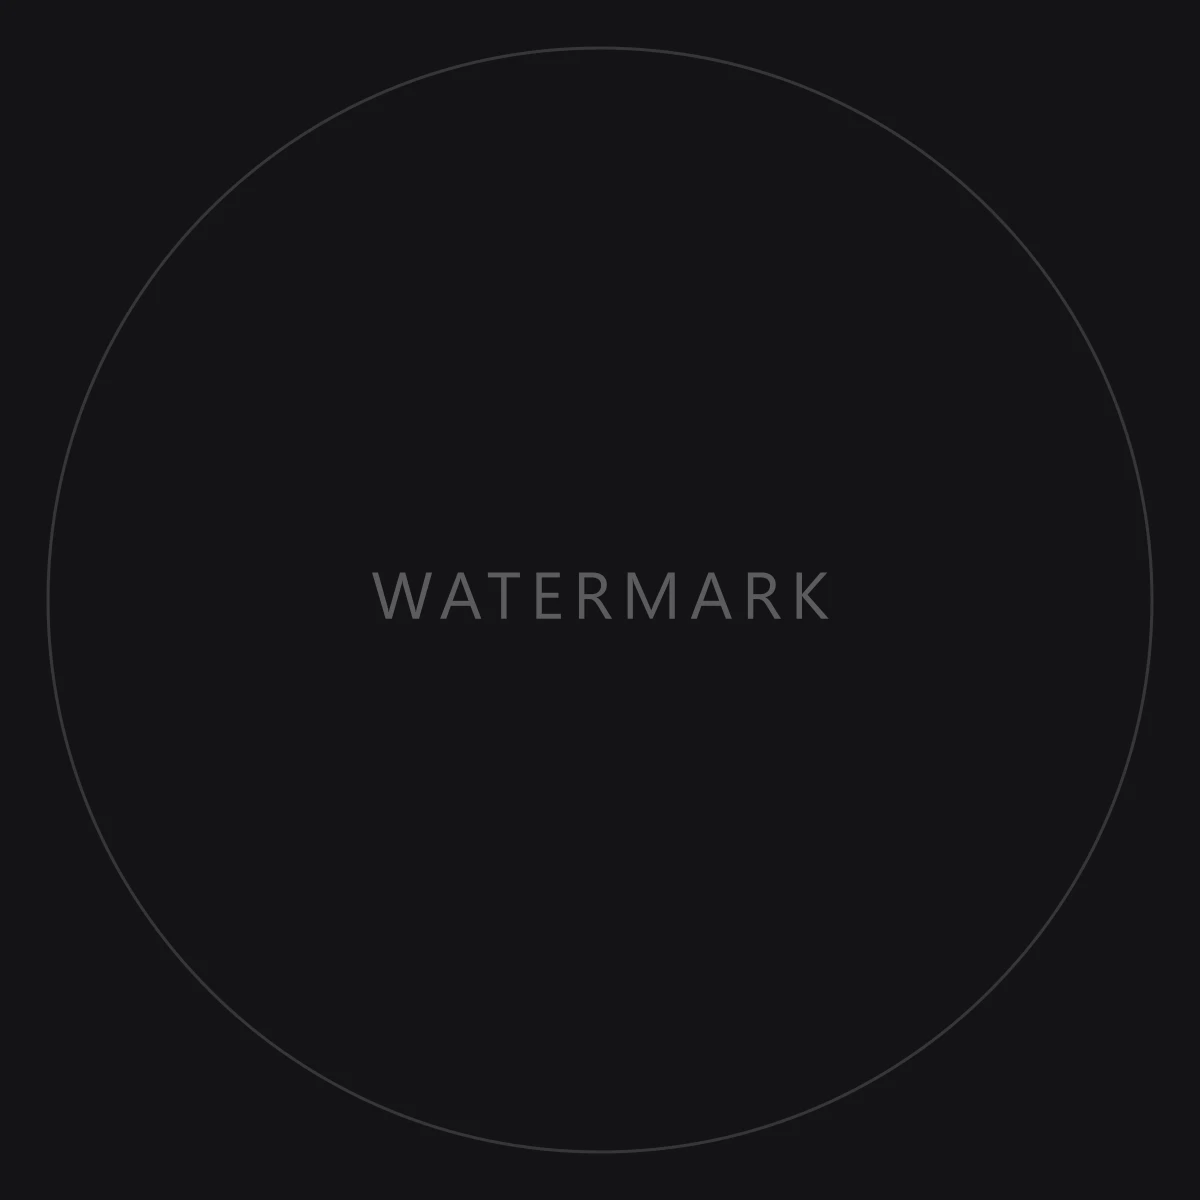
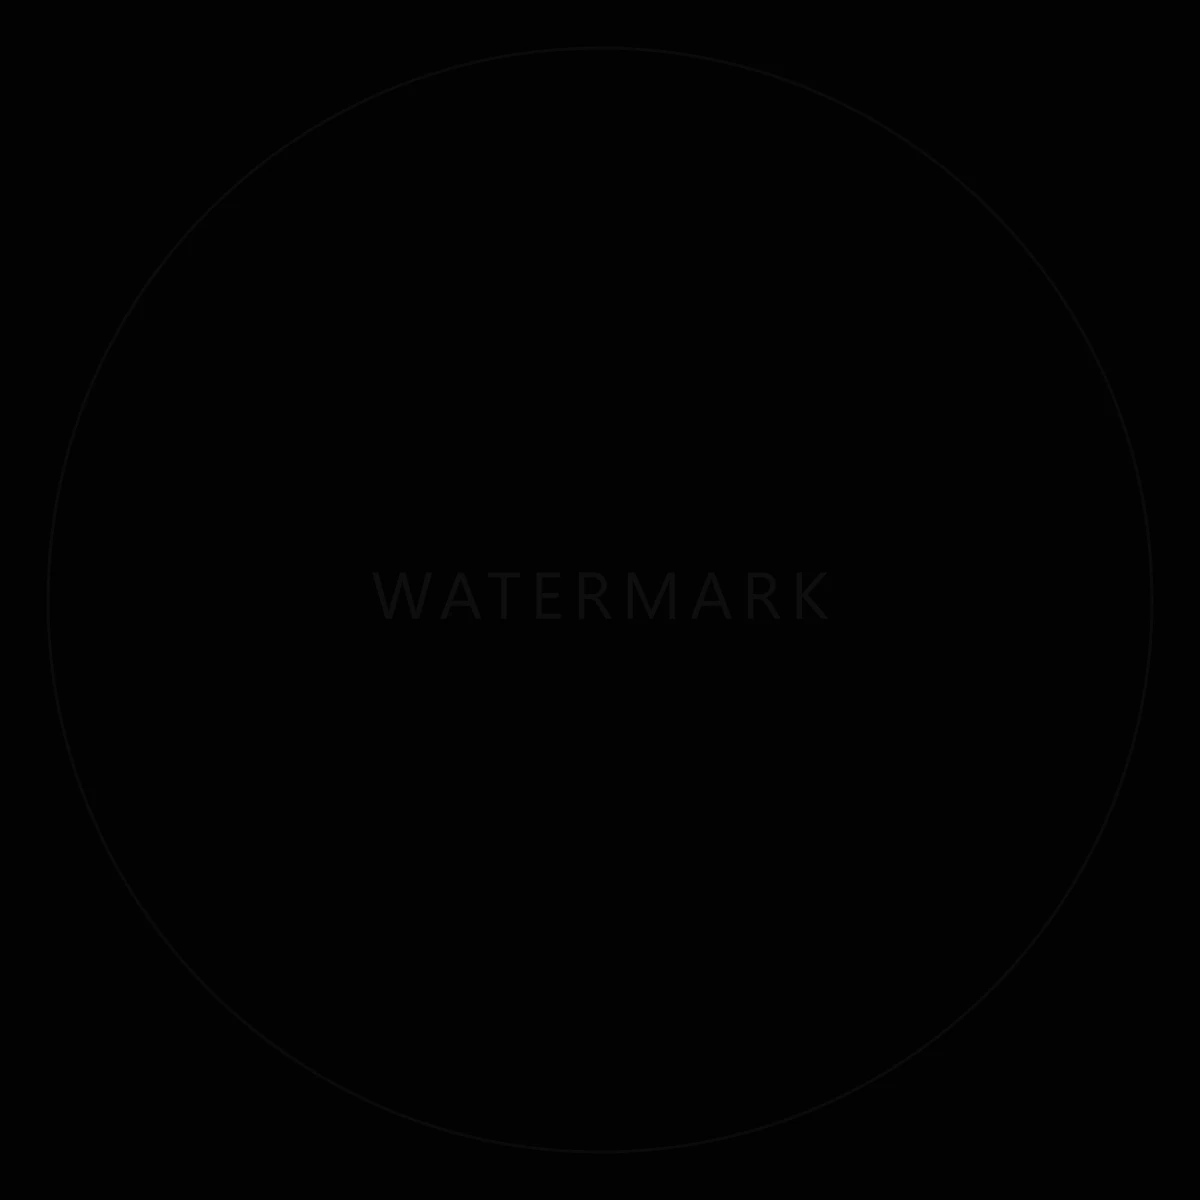
A new club's first day looks unfinished, not broken
Stood up a bare second org against the emulator to see what a brand-new club
actually renders, rather than trusting that it would. No Ravens content
leaked, which was the thing the preset layer was for. But the empty state
itself was rough in four ways, all of them the kind of thing you only find
by looking:

- The anthem player mounted with an empty video id, so YouTube parked "This
  video is unavailable" in the corner of an otherwise finished site. Guarded
  at the two call sites rather than in the component, since a component
  cannot return before its hooks.
- The site said "New Club" while the organization record had said the club's
  real name all along. resolveBranding now takes the org rather than a bare
  slug and reads saved branding, then org.name, then the preset placeholder.
- The watermark placeholder glowed lavender across a quarter of the page.
  The home page composites that slot with mix-blend-mode:lighten and
  brightness(3.8), which a mid-grey placeholder does not survive; it is now
  drawn near-black so the blend swallows it.
- An unset tagline left two ornamental rules framing an empty line, and an
  unset mission left an empty paragraph. Both are conditional now.
- The blank preset also stopped shipping a placeholder short name, so the
  footer says "About BWM" from the club's own initials rather than "About NC".

Separately, and needed for a site-per-club setup: ORG_SLUG pins a deployment
[…]

diff --git a/scripts/make-placeholder-art.ts b/scripts/make-placeholder-art.ts
@@ -33,6 +33,14 @@ type Slot = {
   transparent?: boolean;
   /** Round the frame into a disc, for badge-shaped slots. */
   disc?: boolean;
+  /**
+   * Draw on a NEAR-BLACK ground with barely-there strokes. Only the watermark
+   * needs this: the home page composites it with mix-blend-mode:lighten and
+   * brightness(3.8), which takes the per-pixel max against the section behind
+   * it. A mid-grey placeholder under that filter glows lavender across a
+   * quarter of the page.
+   */
+  blended?: boolean;
 };
 
 const SLOTS: Slot[] = [
@@ -44,22 +52,25 @@ const SLOTS: Slot[] = [
   { name: "emblem", w: 320, h: 320, label: "Emblem", transparent: true, disc: true },
   // The home page composites the watermark with mix-blend-mode:lighten, which
   // needs a near-black ground to disappear into the section behind it.
-  { name: "watermark", w: 1200, h: 1200, label: "Watermark", disc: true },
+  { name: "watermark", w: 1200, h: 1200, label: "Watermark", disc: true, blended: true },
 ];
 
-function svg({ w, h, label, transparent, disc }: Slot): string {
+function svg({ w, h, label, transparent, disc, blended }: Slot): string {
+  const ground = blended ? "#020202" : GROUND;
+  const line = blended ? "rgba(255,255,255,0.035)" : LINE;
+  const text = blended ? "rgba(255,255,255,0.05)" : TEXT;
   const inset = Math.round(Math.min(w, h) * 0.04);
   const fw = w - inset * 2;
   const fh = h - inset * 2;
   const radius = disc ? Math.min(fw, fh) / 2 : Math.round(Math.min(w, h) * 0.03);
   const fontSize = Math.max(12, Math.round(Math.min(w, h) * 0.055));
   return `<svg xmlns="http://www.w3.org/2000/svg" width="${w}" height="${h}">
-  <rect width="${w}" height="${h}" fill="${transparent ? "none" : GROUND}"/>
+  <rect width="${w}" height="${h}" fill="${transparent ? "none" : ground}"/>
   <rect x="${inset}" y="${inset}" width="${fw}" height="${fh}" rx="${radius}"
-        fill="none" stroke="${LINE}" stroke-width="${Math.max(1, Math.round(w / 400))}"/>
+        fill="none" stroke="${line}" stroke-width="${Math.max(1, Math.round(w / 400))}"/>
   <text x="50%" y="50%" text-anchor="middle" dominant-baseline="middle"
         font-family="Inter, Segoe UI, sans-serif" font-size="${fontSize}"
-        letter-spacing="${(fontSize * 0.14).toFixed(1)}" fill="${TEXT}">${label.toUpperCase()}</text>
+        letter-spacing="${(fontSize * 0.14).toFixed(1)}" fill="${text}">${label.toUpperCase()}</text>
 </svg>`;
 }
 

diff --git a/src/app/[orgSlug]/portal/layout.tsx b/src/app/[orgSlug]/portal/layout.tsx
@@ -1,6 +1,7 @@
 import { notFound, redirect } from "next/navigation";
 import { getSessionUser } from "@/lib/auth/session";
 import { getBranding, getOrgBySlug } from "@/lib/tenant";
+import { servesOrg } from "@/lib/tenant-lock";
 import { getMember, listRanks } from "@/lib/queries";
 import { resolveBranding } from "@/lib/branding-resolve";
 import { BrandStyle } from "@/components/theme/BrandStyle";
@@ -22,6 +23,9 @@ export default async function PortalLayout({
   // Neither lookup needs the other, so they run in parallel.
   const [org, user] = await Promise.all([getOrgBySlug(orgSlug), getSessionUser()]);
   if (!org || org.status !== "active") notFound();
+  // A deployment pinned to one club (ORG_SLUG) does not serve the others,
+  // even though they share a database. See src/lib/tenant-lock.ts.
+  if (!servesOrg(orgSlug)) notFound();
   if (!user) redirect(`/${orgSlug}/volunteer-resources?signin=1`);
 
   const entry = user.claims.orgs?.[org.id];
@@ -45,7 +49,7 @@ export default async function PortalLayout({
   // branding document now renders the shipped defaults instead of 404ing,
   // which matters because that 404 locked admins out of the very page they
   // would use to fix it.
-  const branding = resolveBranding(brandingDoc, "portal", org.slug);
+  const branding = resolveBranding(brandingDoc, "portal", org);
 
   const rankName = member
     ? ranks.find((r) => r.id === member.rankId)?.name
@@ -82,7 +86,12 @@ export default async function PortalLayout({
           between portal pages never restarts the track — only a full reload
           does. Same component and corner as the public site; the portal's
           brand vars just repaint it. */}
-      <MusicPlayer videoId={branding.anthemVideoId} label="Club Anthem" />
+      {/* No anthem chosen, no player. Mounting it with an empty id loads the
+          embed anyway and YouTube parks "This video is unavailable" in the
+          corner of an otherwise finished site. */}
+      {branding.anthemVideoId && (
+        <MusicPlayer videoId={branding.anthemVideoId} label="Club Anthem" />
+      )}
       {/* Toasts moved off bottom-right when the player took that corner —
           a 356px toast sat squarely on the play pill. */}
       <Toaster richColors position="top-right" />

diff --git a/src/app/[orgSlug]/(public)/page.tsx b/src/app/[orgSlug]/(public)/page.tsx
@@ -29,7 +29,7 @@ export default async function PublicHomePage({
   const { orgSlug } = await params;
   const org = await getOrgBySlug(orgSlug);
   if (!org) notFound();
-  const branding = resolveBranding(await getBranding(org.id, "public"), "public", org.slug);
+  const branding = resolveBranding(await getBranding(org.id, "public"), "public", org);
   const preset = clubPreset(org.slug);
   const photos = await composeGallery(org.id, org.slug);
   const base = `/${orgSlug}`;
@@ -160,18 +160,25 @@ export default async function PublicHomePage({
               {line2 && <span className="mt-1 block">{line2}</span>}
             </DisplayHeading>
 
-            {/* Creed, sandwiched by ornamental rules */}
-            <div className="mt-8 max-w-xl">
-              <OrnamentRule />
-              <p className="my-3.5 text-center text-base font-semibold uppercase tracking-[0.16em] text-primary md:text-lg">
-                {creed.split(/\s*[·|]\s*/).join(" | ")}
-              </p>
-              <OrnamentRule />
-            </div>
+            {/* Creed, sandwiched by ornamental rules. Both the rules and the
+                mission are conditional: a club that has not written them yet
+                would otherwise get two ornaments framing an empty line, which
+                reads as a broken page rather than an unfinished one. */}
+            {creed && (
+              <div className="mt-8 max-w-xl">
+                <OrnamentRule />
+                <p className="my-3.5 text-center text-base font-semibold uppercase tracking-[0.16em] text-primary md:text-lg">
+                  {creed.split(/\s*[·|]\s*/).join(" | ")}
+                </p>
+                <OrnamentRule />
+              </div>
+            )}
 
-            <p className="mt-7 max-w-lg text-lg leading-relaxed text-foreground">
-              {branding.mission}
-            </p>
+            {branding.mission && (
+              <p className="mt-7 max-w-lg text-lg leading-relaxed text-foreground">
+                {branding.mission}
+              </p>
+            )}
             <div className="mt-10">
               <Button
                 asChild

diff --git a/src/lib/branding-resolve.ts b/src/lib/branding-resolve.ts
@@ -22,6 +22,16 @@ import type {
  * same function to paint its live preview, which is what makes the preview
  * trustworthy rather than an approximation.
  */
+/**
+ * What resolution needs to know about the tenant: which club it is, and what
+ * the organization record calls it. An `Organization` satisfies this, which is
+ * why every call site can pass the one it already loaded.
+ */
+export interface BrandingOrg {
+  slug: string;
+  name?: string;
+}
+
 export interface ResolvedBranding {
   surface: "public" | "portal";
   /** Every token present — no optional colours downstream. */
@@ -90,12 +100,17 @@ function assetUrl(
 export function resolveBranding(
   branding: Branding | null | undefined,
   surface: "public" | "portal",
-  slug: string | null | undefined,
+  org: BrandingOrg,
 ): ResolvedBranding {
+  const { slug } = org;
   const base = defaultBrandingFor(slug, surface);
   const shipped = defaultAssetsFor(slug);
   const colors = { ...base.colors, ...branding?.colors };
-  const name = branding?.orgDisplayName || base.orgDisplayName;
+  // Saved branding, then the ORG RECORD's own name, then the preset. The
+  // middle step matters for a club that has been bootstrapped but not yet
+  // branded: without it the site says "New Club" while the organization
+  // document has said the club's real name all along.
+  const name = branding?.orgDisplayName || org.name || base.orgDisplayName;
 
   const assets = {} as Record<BrandingAssetKey, string>;
   const customAssets = new Set<BrandingAssetKey>();
@@ -204,12 +219,12 @@ export function draftToResolved(
   draft: BrandingDraft,
   surface: "public" | "portal",
   assets: BrandingAssets,
-  slug: string,
+  org: BrandingOrg,
 ): ResolvedBranding {
   return resolveBranding(
     {
       colors: draft.colors,
-      fonts: clubPreset(slug).fonts,
+      fonts: clubPreset(org.slug).fonts,
       orgDisplayName: draft.orgDisplayName,
       shortName: draft.shortName,
       location: draft.location,
@@ -220,6 +235,6 @@ export function draftToResolved(
       assets,
     },
     surface,
-    slug,
+    org,
   );
 }

diff --git a/src/app/[orgSlug]/(public)/layout.tsx b/src/app/[orgSlug]/(public)/layout.tsx
@@ -1,5 +1,6 @@
 import { notFound } from "next/navigation";
 import { getBranding, getOrgBySlug } from "@/lib/tenant";
+import { servesOrg } from "@/lib/tenant-lock";
 import { resolveBranding } from "@/lib/branding-resolve";
 import { BrandStyle } from "@/components/theme/BrandStyle";
 import { BrandingProvider } from "@/components/theme/BrandingProvider";
@@ -18,12 +19,15 @@ export default async function PublicLayout({
   const { orgSlug } = await params;
   const org = await getOrgBySlug(orgSlug);
   if (!org || org.status !== "active") notFound();
+  // A deployment pinned to one club (ORG_SLUG) does not serve the others,
+  // even though they share a database. See src/lib/tenant-lock.ts.
+  if (!servesOrg(orgSlug)) notFound();
 
   // Resolved once, here. Everything below reads a value where every colour and
   // every image URL is already present, which is what keeps `?? "/brand/..."`
   // out of components. A club with no branding document renders the shipped
   // defaults rather than 404ing, so a fresh tenant is never a broken site.
-  const branding = resolveBranding(await getBranding(org.id, "public"), "public", org.slug);
+  const branding = resolveBranding(await getBranding(org.id, "public"), "public", org);
 
   return (
     <BrandingProvider branding={branding}>
@@ -45,7 +49,12 @@ export default async function PublicLayout({
           {children}
         </main>
         <CharityFooter orgSlug={orgSlug} branding={branding} />
+        {/* No anthem chosen, no player. Mounting it with an empty id loads the
+          embed anyway and YouTube parks "This video is unavailable" in the
+          corner of an otherwise finished site. */}
+      {branding.anthemVideoId && (
         <MusicPlayer videoId={branding.anthemVideoId} label="Club Anthem" />
+      )}
       </div>
     </BrandingProvider>
   );

diff --git a/src/lib/tenant-lock.ts b/src/lib/tenant-lock.ts
@@ -1,0 +1,31 @@
+/**
+ * Restrict a deployment to a single club.
+ *
+ * Orgs live in one Firestore database, and routes are `/[orgSlug]/...`, so by
+ * default ANY deployment pointed at that database serves EVERY club in it. On
+ * one shared site that is the whole point. On separate sites per club it is
+ * wrong twice over: the other club's public pages would render on your domain
+ * under the wrong branding (its preset is not in your repo), and its members
+ * could sign in to their portal at your address.
+ *
+ * `ORG_SLUG` closes that. Set it to the club a deployment belongs to and every
+ * other slug 404s. Leave it unset and the deployment serves all of them, which
+ * is what a single multi-club site wants.
+ *
+ * This is layout-level, not a security boundary — Firestore rules and
+ * `requireOrgRole` are still the thing standing between a member and another
+ * club's data, and they are unchanged. What this fixes is a club appearing on
+ * a domain that is not its own.
+ */
+
+/** The one club this deployment serves, or null when it serves all of them. */
+export function lockedOrgSlug(): string | null {
+  const slug = process.env.ORG_SLUG?.trim();
+  return slug ? slug : null;
+}
+
+/** False when this deployment is locked to a different club. */
+export function servesOrg(slug: string): boolean {
+  const locked = lockedOrgSlug();
+  return locked === null || locked === slug;
+}

diff --git a/tests/lib/club-isolation.test.ts b/tests/lib/club-isolation.test.ts
@@ -24,7 +24,7 @@ const NEW_CLUB = "blue-wolves";
 function renderedStrings(slug: string): string[] {
   const out: string[] = [];
   for (const surface of ["public", "portal"] as const) {
-    const r = resolveBranding(null, surface, slug);
+    const r = resolveBranding(null, surface, { slug });
     out.push(
       r.name,
       r.shortName,
@@ -145,7 +145,7 @@ describe("a preset-less club inherits nothing from the Ravens", () => {
 describe("the founding club is unchanged by the preset layer", () => {
   it("resolves the exact palette it shipped with", () => {
     for (const surface of ["public", "portal"] as const) {
-      const resolved = resolveBranding(null, surface, "silent-souls");
+      const resolved = resolveBranding(null, surface, { slug: "silent-souls" });
       expect(resolved.colors).toMatchObject(RAVENS.colors[surface]);
       expect(resolved.name).toBe(RAVENS.identity.displayName);
       expect(resolved.assets).toEqual(RAVENS.assets);
@@ -170,7 +170,7 @@ describe("the founding club is unchanged by the preset layer", () => {
         assets: { clubPatch: "/api/orgs/x/branding/clubPatch?v=1" },
       },
       "portal",
-      "silent-souls",
+      { slug: "silent-souls" },
     );
     expect(resolved.colors.primary).toBe("#1E5FD9");
     expect(resolved.name).toBe("Azure Wolves MC");

diff --git a/src/app/page.tsx b/src/app/page.tsx
@@ -3,10 +3,10 @@ import { redirect } from "next/navigation";
 /**
  * Platform root — until custom domains (M9), send visitors to one org.
  *
- * Which org is deployment configuration, not a code constant: a second club on
- * its own deployment sets DEFAULT_ORG_SLUG rather than editing this file, and a
- * deployment hosting several clubs picks whichever should own the bare domain.
+ * Which org is deployment configuration, not a code constant. A site pinned to
+ * one club sets `ORG_SLUG` and gets this for free; a site hosting several sets
+ * `DEFAULT_ORG_SLUG` to pick which one owns the bare domain.
  */
 export default function RootPage() {
-  redirect(`/${process.env.DEFAULT_ORG_SLUG ?? "silent-souls"}`);
+  redirect(`/${process.env.ORG_SLUG ?? process.env.DEFAULT_ORG_SLUG ?? "silent-souls"}`);
 }

diff --git a/src/app/[orgSlug]/portal/brotherhood/[memberId]/page.tsx b/src/app/[orgSlug]/portal/brotherhood/[memberId]/page.tsx
@@ -80,7 +80,7 @@ export default async function MemberDetailPage({
     ]);
   const rank = ranks.find((r) => r.id === member.rankId);
   const patchById = new Map(patches.map((p) => [p.id, p]));
-  const brand = resolveBranding(branding, "portal", org.slug);
+  const brand = resolveBranding(branding, "portal", org);
 
   // Top patches for the stage's diamond slots — rarest first, then tier.
   const rarityWeight = { legendary: 4, epic: 3, rare: 2, common: 1 } as const;

diff --git a/src/app/[orgSlug]/(public)/about/page.tsx b/src/app/[orgSlug]/(public)/about/page.tsx
@@ -33,7 +33,7 @@ export default async function AboutPage({
   const org = await getOrgBySlug(orgSlug);
   if (!org) notFound();
   const doc = await getBranding(org.id, "public");
-  const branding = resolveBranding(doc, "public", org.slug);
+  const branding = resolveBranding(doc, "public", org);
 
   // Firestore first, then THIS CLUB's preset. Never a global default: a
   // shared fallback is how one club ends up telling another club's history.

diff --git a/src/app/[orgSlug]/portal/map/page.tsx b/src/app/[orgSlug]/portal/map/page.tsx
@@ -33,7 +33,7 @@ export default async function ClubMapPage({
     listMembers(org.id),
     getBranding(org.id, "portal"),
   ]);
-  const territoryName = resolveBranding(brandingDoc, "portal", org.slug).location;
+  const territoryName = resolveBranding(brandingDoc, "portal", org).location;
   const roadNameById = new Map(members.map((m) => [m.id, m.roadName]));
 
   const markers: ClubMapMarker[] = rawMarkers.map((m) => ({

diff --git a/src/app/[orgSlug]/portal/brotherhood/page.tsx b/src/app/[orgSlug]/portal/brotherhood/page.tsx
@@ -67,7 +67,7 @@ export default async function BrotherhoodPage({
 
   const rankById = new Map(ranks.map((r) => [r.id, r]));
   const patchById = new Map(patches.map((p) => [p.id, p]));
-  const brand = resolveBranding(branding, "portal", org.slug);
+  const brand = resolveBranding(branding, "portal", org);
 
   const toRosterMember = (member: Member): RosterMember => {
     const rank = rankById.get(member.rankId);
